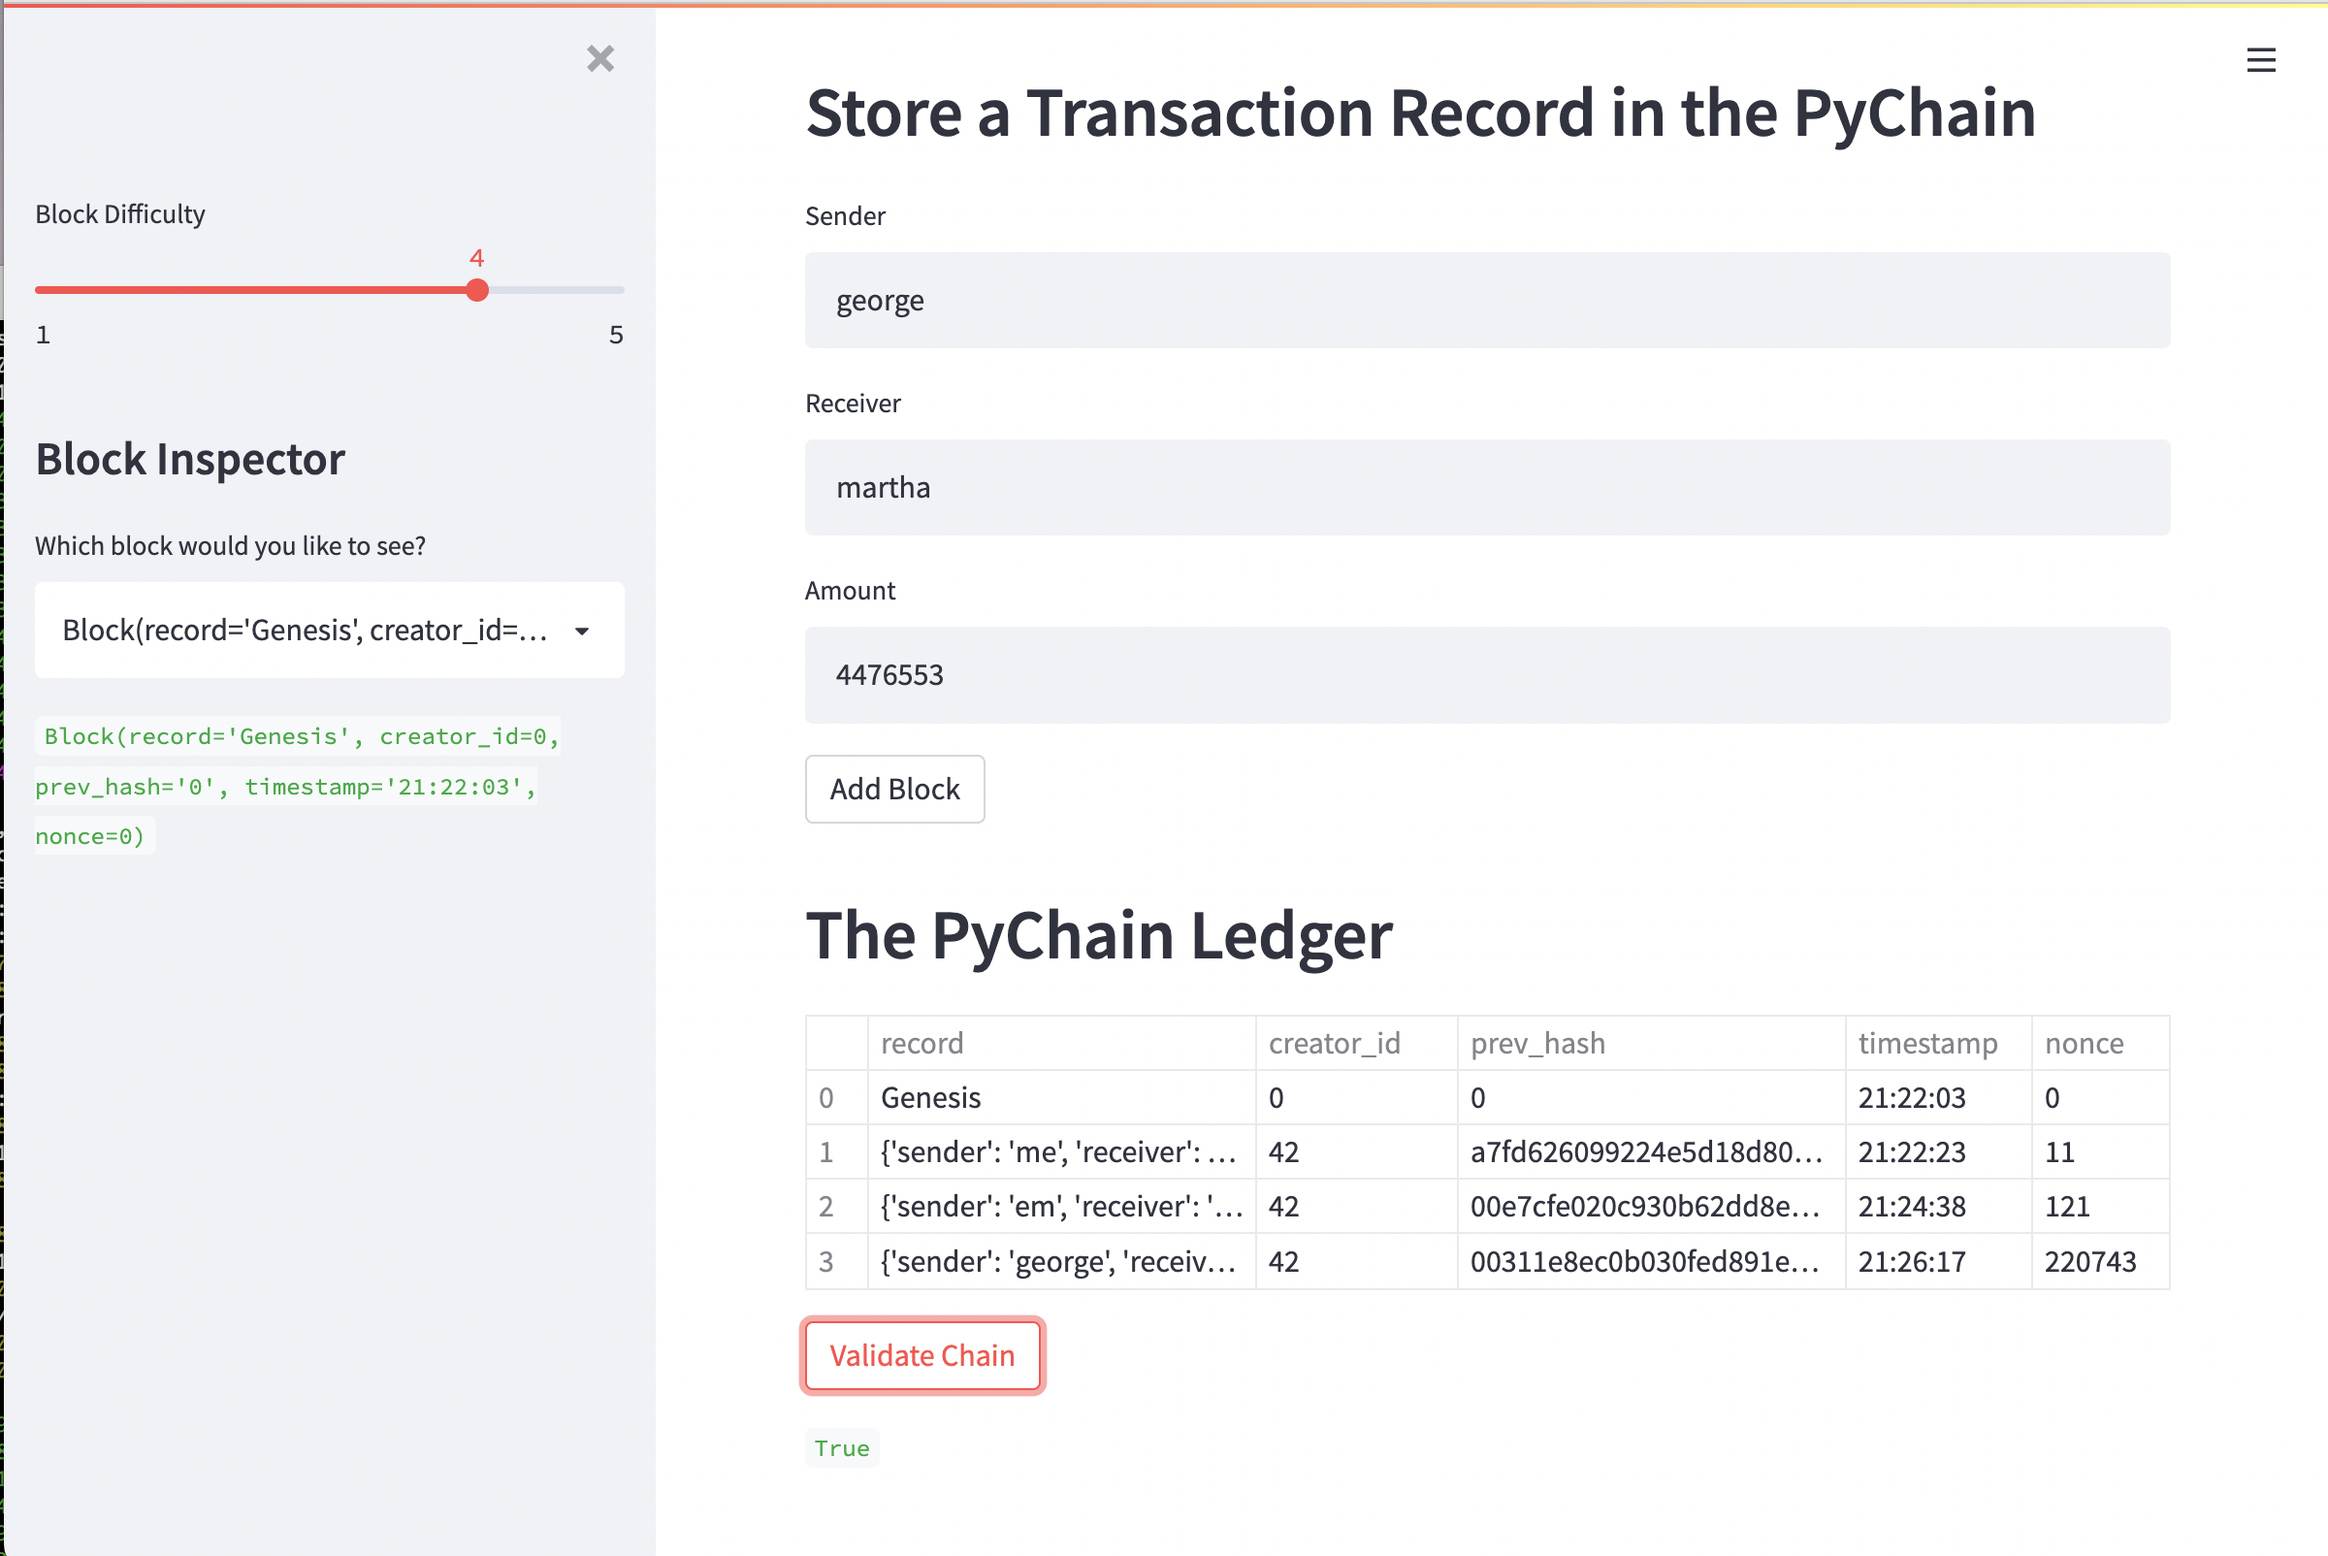
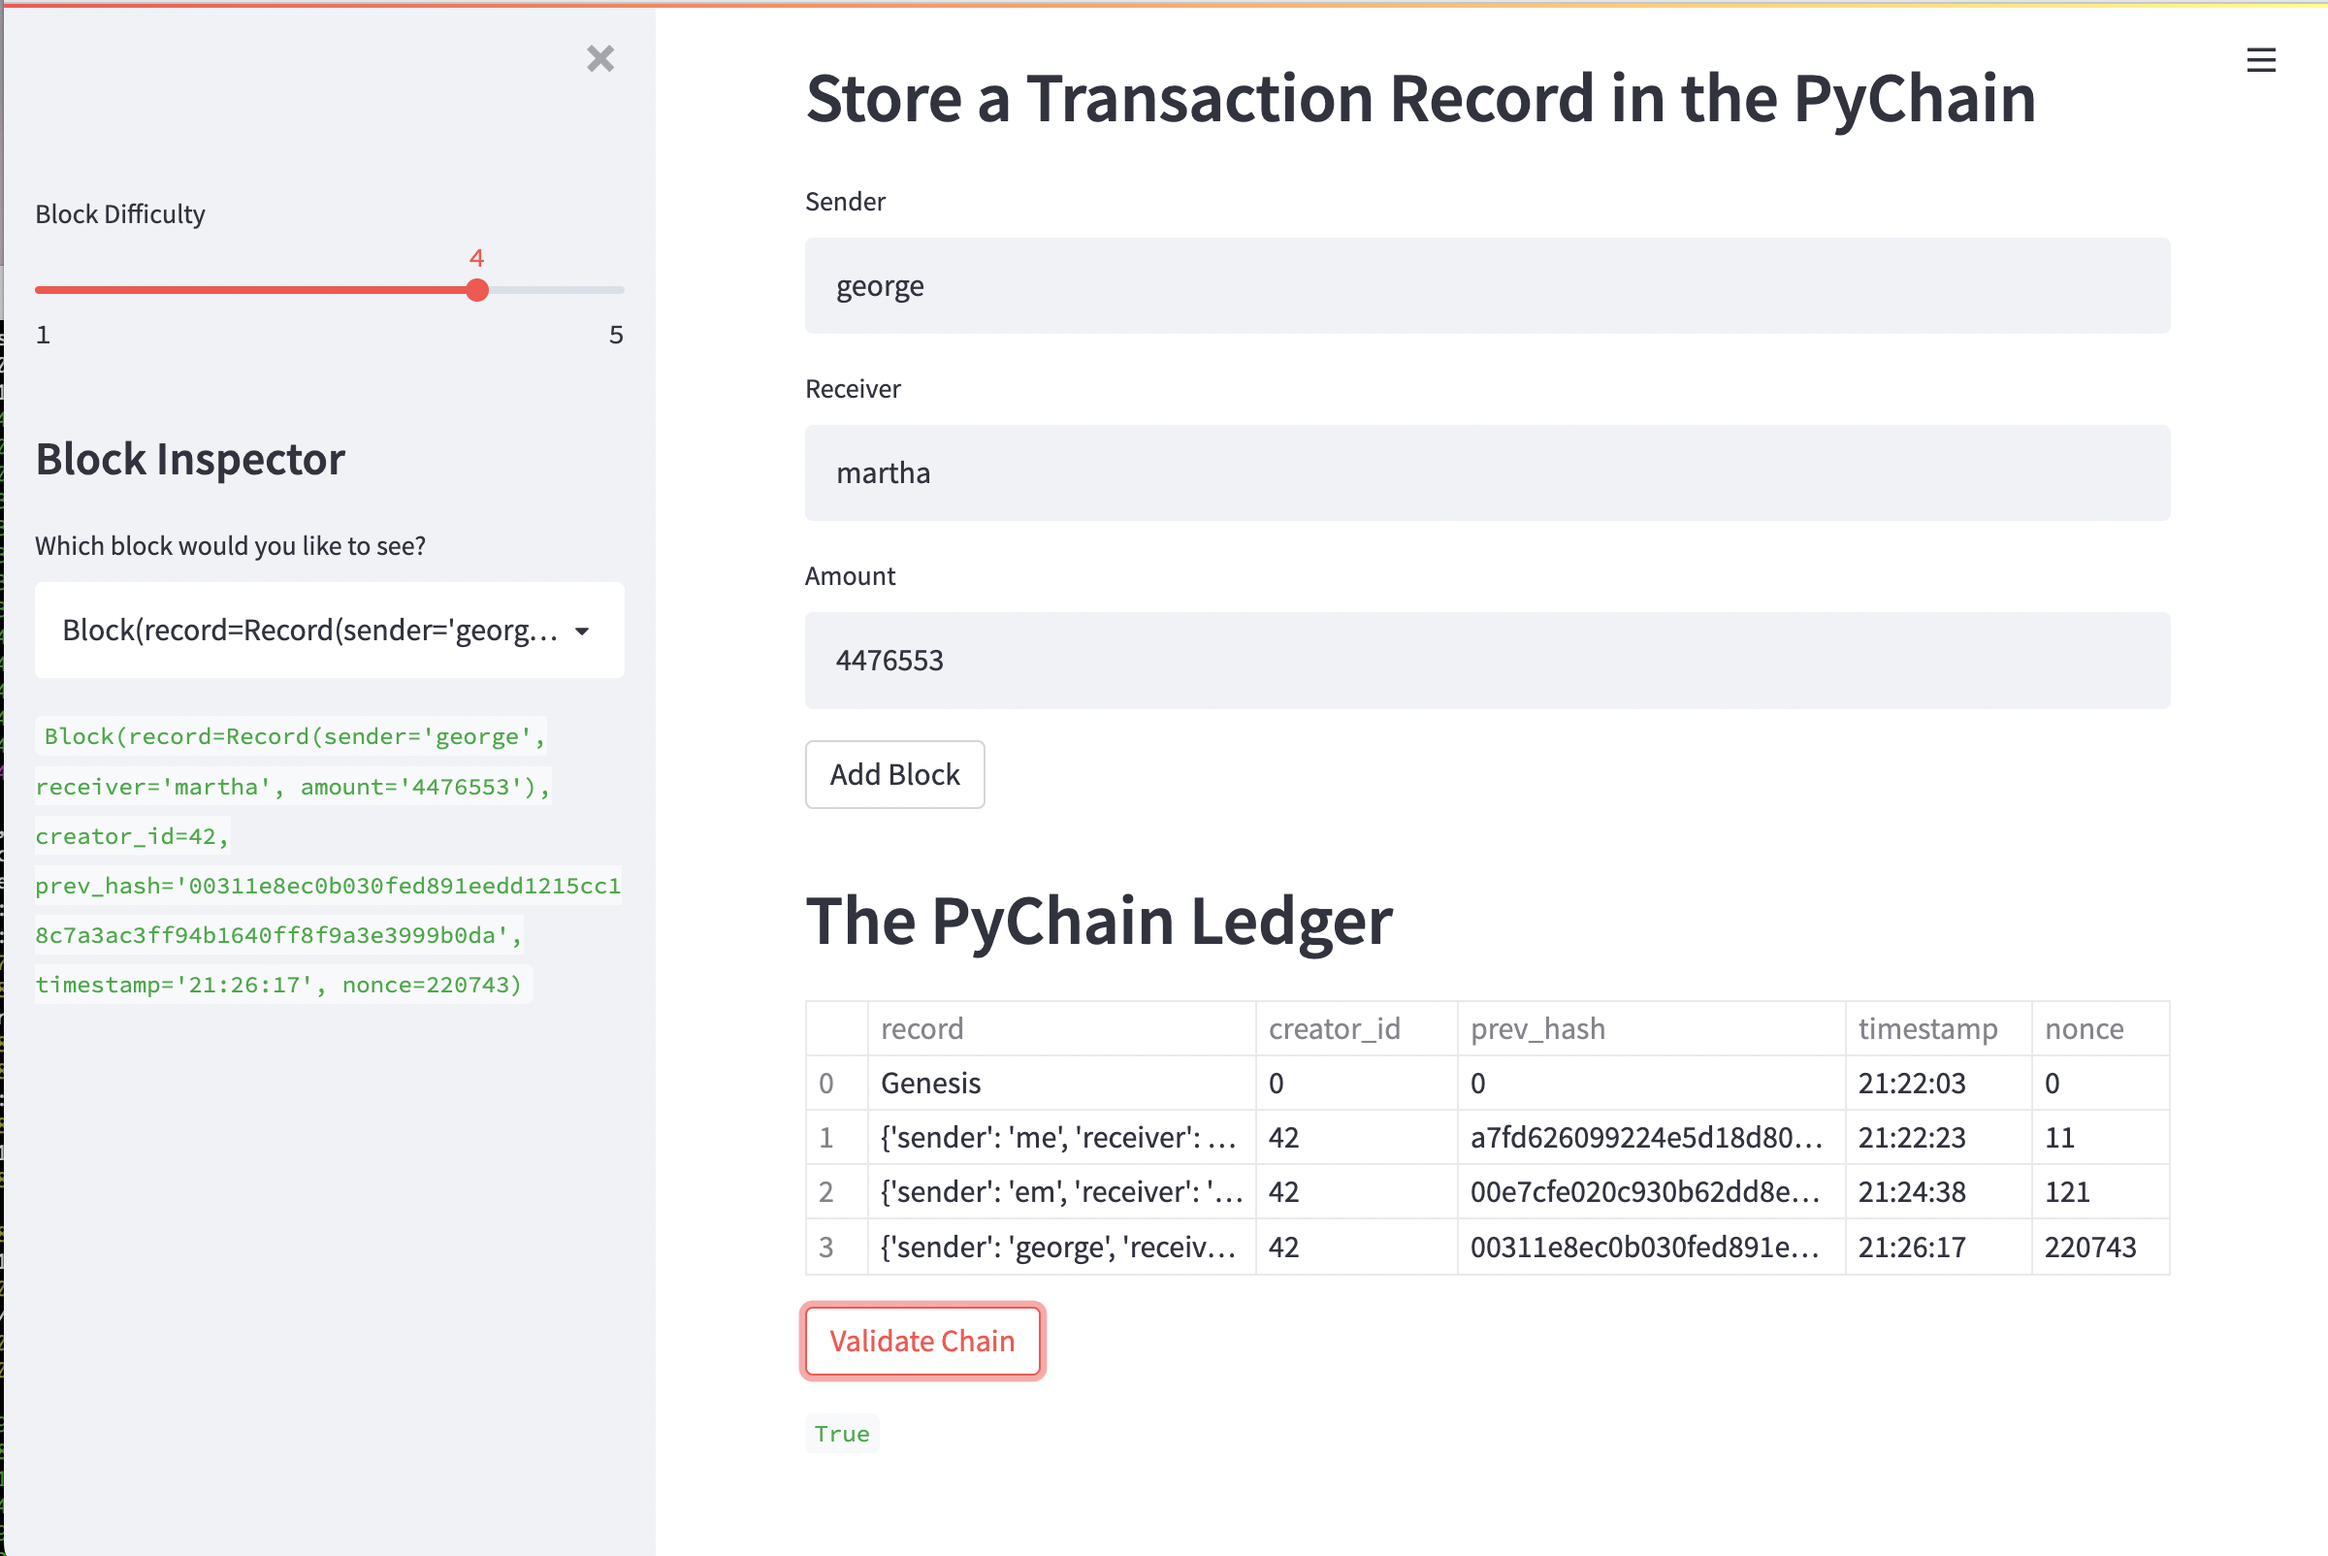
Update code .py

diff --git a/pychain.py b/pychain.py
@@ -1,8 +1,5 @@
 # PyChain Ledger
 ################################################################################
-# You’ll make the following updates to the provided Python file for this
-# Challenge, which already contains the basic `PyChain` ledger structure that
-# you created throughout the module:
 
 # Step 1: Create a Record Data Class
 # * Create a new data class named `Record`. This class will serve as the
@@ -33,24 +30,9 @@ import hashlib
 
 ################################################################################
 # Step 1:
-# Create a Record Data Class
-
-# Define a new Python data class named `Record`. Give this new class a
-# formalized data structure that consists of the `sender`, `receiver`, and
-# `amount` attributes. To do so, complete the following steps:
-# 1. Define a new class named `Record`.
-# 2. Add the `@dataclass` decorator immediately before the `Record` class
-# definition.
-# 3. Add an attribute named `sender` of type `str`.
-# 4. Add an attribute named `receiver` of type `str`.
-# 5. Add an attribute named `amount` of type `float`.
-# Note that you’ll use this new `Record` class as the data type of your `record` attribute in the next section.
-
-
-# @TODO
 # Create a Record Data Class that consists of the `sender`, `receiver`, and
 # `amount` attributes
-# YOUR CODE HERE
+
 @dataclass
 class Record:
     sender: str
@@ -60,13 +42,6 @@ class Record:
 ################################################################################
 # Step 2:
 # Modify the Existing Block Data Class to Store Record Data
-
-# Rename the `data` attribute in your `Block` class to `record`, and then set
-# it to use an instance of the new `Record` class that you created in the
-# previous section. To do so, complete the following steps:
-# 1. In the `Block` class, rename the `data` attribute to `record`.
-# 2. Set the data type of the `record` attribute to `Record`.
-
 
 @dataclass
 class Block:
@@ -158,30 +133,12 @@ pychain = setup()
 # Step 3:
 # Add Relevant User Inputs to the Streamlit Interface
 
-# Code additional input areas for the user interface of your Streamlit
-# application. Create these input areas to capture the sender, receiver, and
-# amount for each transaction that you’ll store in the `Block` record.
-# To do so, complete the following steps:
-# 1. Delete the `input_data` variable from the Streamlit interface.
-# 2. Add an input area where you can get a value for `sender` from the user.
-# 3. Add an input area where you can get a value for `receiver` from the user.
-# 4. Add an input area where you can get a value for `amount` from the user.
-# 5. As part of the Add Block button functionality, update `new_block` so that `Block` consists of an attribute named `record`, which is set equal to a `Record` that contains the `sender`, `receiver`, and `amount` values. The updated `Block`should also include the attributes for `creator_id` and `prev_hash`.
-
-# @TODO:
-# Delete the `input_data` variable from the Streamlit interface.
-# input_data = st.text_input("Block Data")
-
-# @TODO:
 # Add an input area where you can get a value for `sender` from the user.
-# YOUR CODE HERE
 sender = st.text_input("Sender")
 
-# @TODO:
 # Add an input area where you can get a value for `receiver` from the user.
 receiver = st.text_input("Receiver")
 
-# @TODO:
 # Add an input area where you can get a value for `amount` from the user.
 amount = st.text_input("Amount")
 
@@ -189,7 +146,6 @@ if st.button("Add Block"):
     prev_block = pychain.chain[-1]
     prev_block_hash = prev_block.hash_block()
 
-    # @TODO
     # Update `new_block` so that `Block` consists of an attribute named `record`
     # which is set equal to a `Record` that contains the `sender`, `receiver`,
     # and `amount` values
